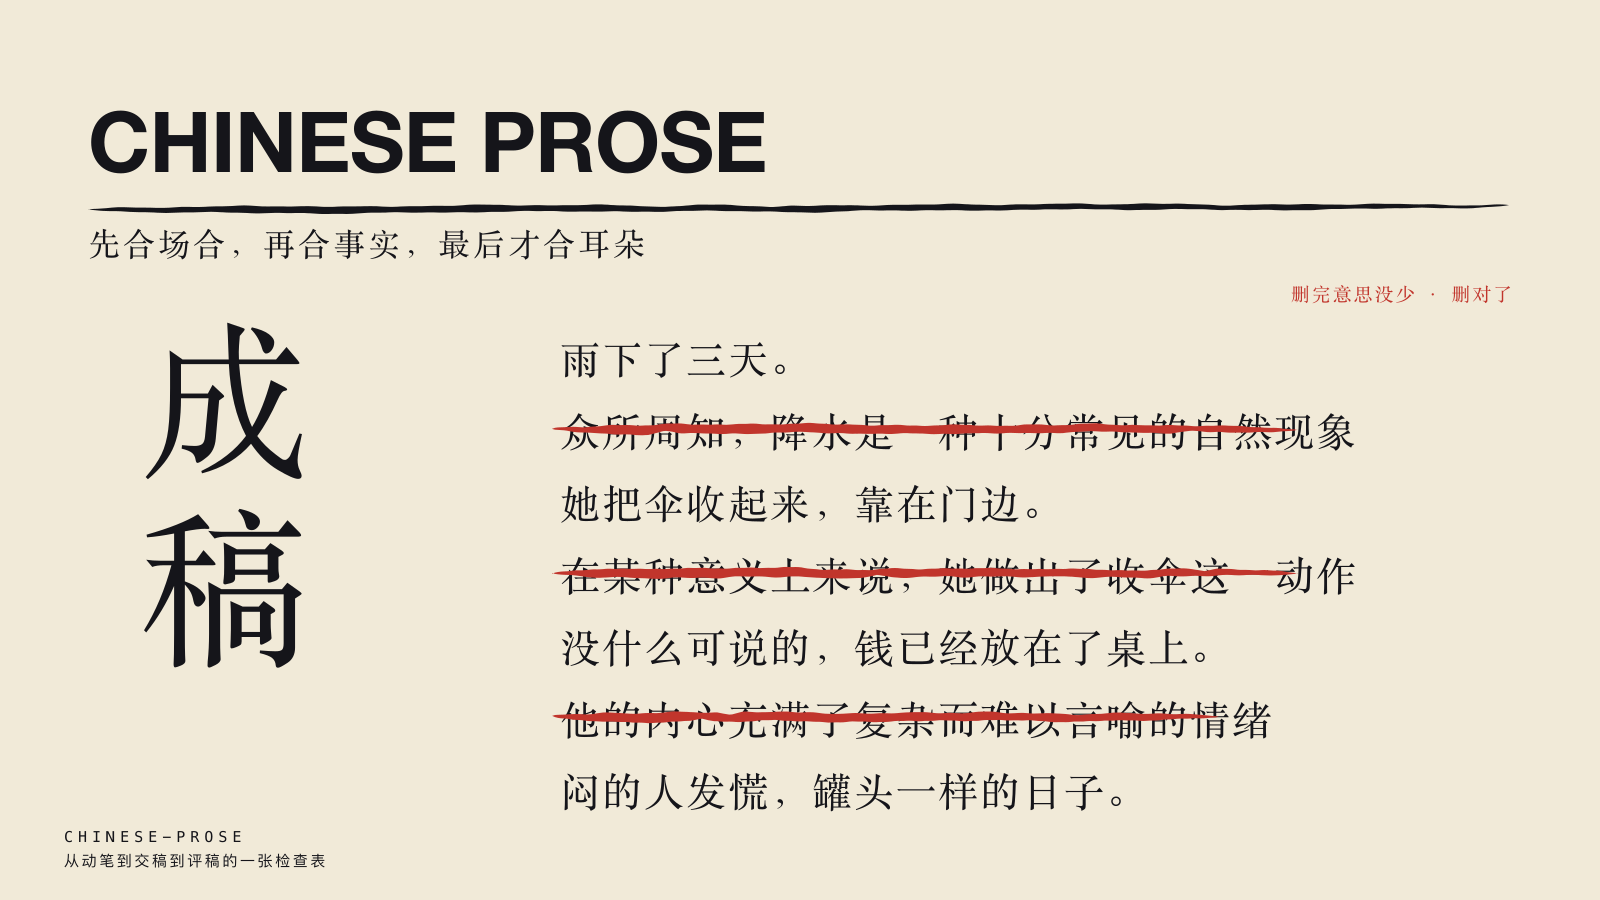
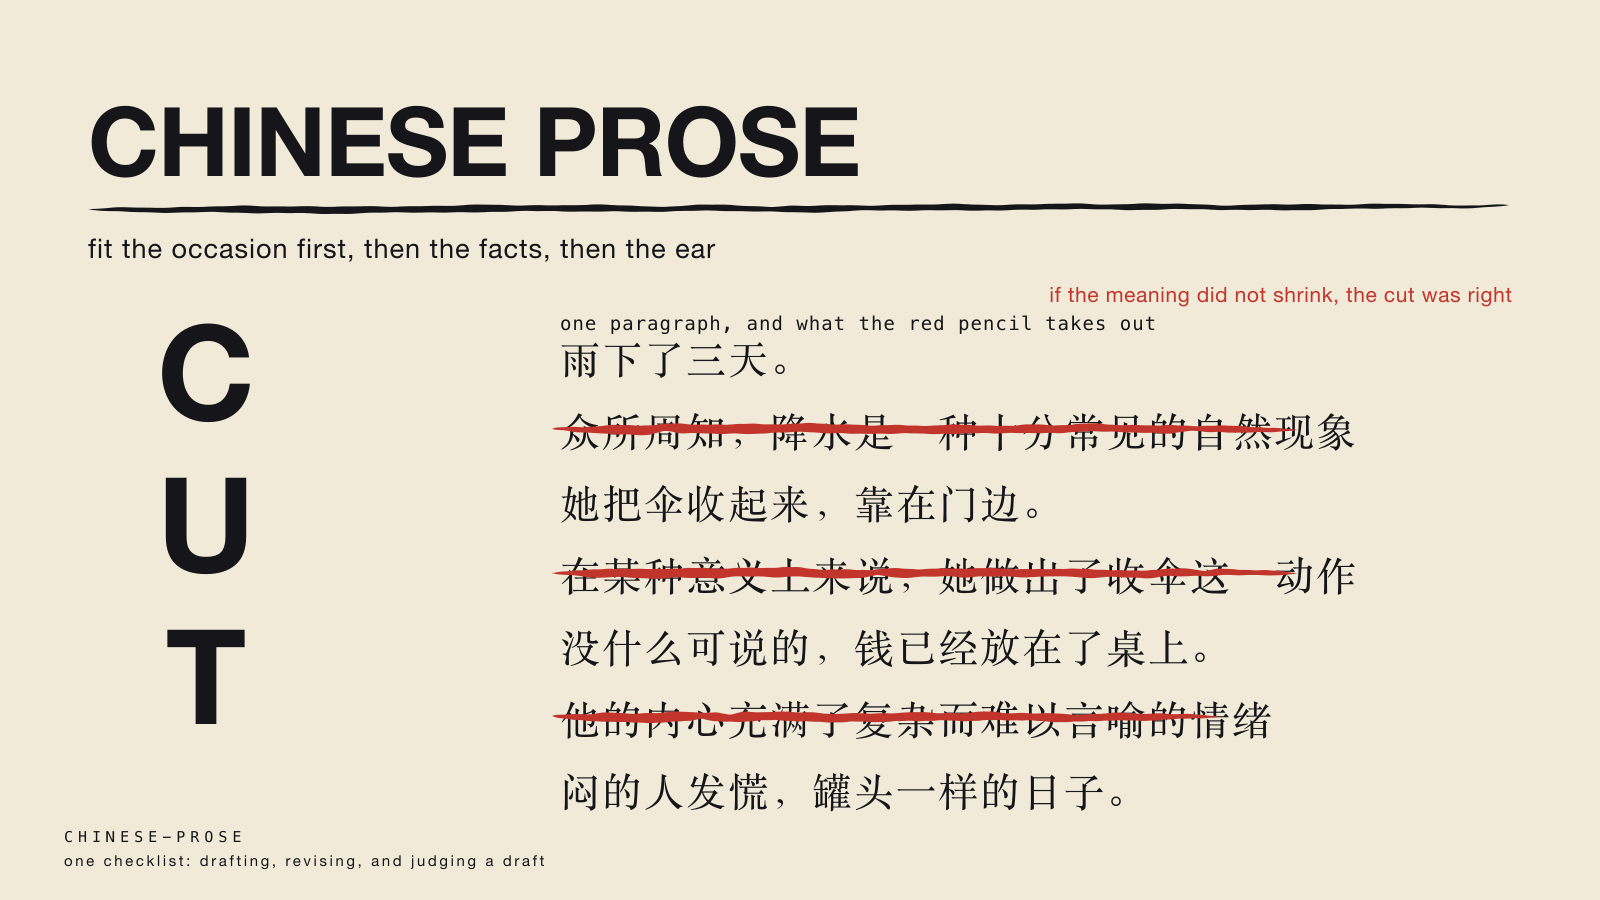
poster: chinese-prose chrome in English
Title, subtitle, note, footer and the vertical word are English now. The
specimen paragraph stays Chinese because the specimen is the subject; a line of
English above it says what the reader is looking at.

diff --git a/posters/build_chinese_prose.py b/posters/build_chinese_prose.py
@@ -4,18 +4,20 @@
 RECIPE
   subject:  一段稿子，和删掉的那几行
   intent:   observe
-  text:     成稿检查（锁）
-  inks:     ink #15151A + cinnabar #C1352C；纸 暖白 #F1EAD8
-  division: 墨＝正文与标题；朱砂＝删改的那几笔，别的地方一点不出现
-  layout:   字占版——竖排大字统治左侧，右侧是被改过的稿面
-  focus:    竖排的两个大字「成稿」，是最小字的八倍
-  air:      左下那片纸
+  text:     CHINESE PROSE (locked) + a vertical CUT
+  inks:     ink #15151A + cinnabar #C1352C; paper warm white #F1EAD8
+  division: ink = the specimen and the type; cinnabar = the strikes, and nothing else
+  layout:   type-dominant - a vertical word governs the left, the edited page sits right
+  focus:    the vertical CUT, eight times the size of the smallest type
+  air:      the paper at lower left
   paper:    ~55%
-  texture:  纸纹＋套版偏移
+  texture:  paper grain + misregistration
 
 WHY
-  这件 skill 的判据是「删完意思没少，删对了」。所以海报画的不是干净的成品，是改过的稿：
-  留下的墨，划掉的朱砂。改稿的样子本身就是这件事的样子。
+  The skill's test is "if the meaning did not shrink, the cut was right". So the poster is
+  not a clean finished page - it is a page being edited: what stays in ink, what goes in red.
+  The specimen stays in Chinese because the specimen *is* the subject; everything around it
+  is English, so a reader who does not read Chinese can still see exactly what is happening.
 """
 from poster_kit import (CINNABAR, CJK_SONG, H, INK, LATIN, MONO, W, WARM,  # noqa: F401
                         cut_stroke, footer, rule, text, write)
@@ -41,16 +43,19 @@ def build():
             rows.append(f'<path d="{cut_stroke([(552, y - 15), (552 + len(s) * 39.4, y - 15)], 5, 3.4, seed=int(y), wobble=1.4)}" fill="{CINNABAR}"/>')
         y += 72
 
-    # 竖排大字：竖排本身就是那唯一的打破点，不再加第二个
-    vertical = "".join(text(224, 452 + i * 186, ch, 168, INK, CJK_SONG, anchor="middle")
-                       for i, ch in enumerate("成稿"))
+    # One vertical word - the vertical setting is the single disruption, so nothing else
+    # breaks the grid. It says what the red marks do.
+    vertical = "".join(text(206, 420 + i * 152, ch, 132, INK, LATIN, anchor="middle",
+                            weight="700")
+                       for i, ch in enumerate("CUT"))
 
     inner = ("".join(rows) + vertical
-             + text(88, 172, "CHINESE PROSE", 84, INK, LATIN, track=-0.8, weight="700")
+             + text(88, 176, "CHINESE PROSE", 96, INK, LATIN, track=-1.2, weight="700")
              + rule(88, 210, 1512, 206, 3.6, 2.4, seed=5)
-             + text(88, 254, "先合场合，再合事实，最后才合耳朵", 32, INK, CJK_SONG, track=3.0)
-             + text(1512, 300, "删完意思没少 · 删对了", 19, CINNABAR, CJK_SONG, track=2.0, anchor="end")
-             + footer("chinese-prose", "从动笔到交稿到评稿的一张检查表"))
+             + text(88, 258, "fit the occasion first, then the facts, then the ear", 27, INK, LATIN, track=1.0)
+             + text(1512, 302, "if the meaning did not shrink, the cut was right", 21, CINNABAR, LATIN, track=0.6, anchor="end")
+             + text(560, 330, "one paragraph, and what the red pencil takes out", 19, INK, MONO, track=1.0)
+             + footer("chinese-prose", "one checklist: drafting, revising, and judging a draft"))
     write("chinese-prose", WARM, inner)
 
 
